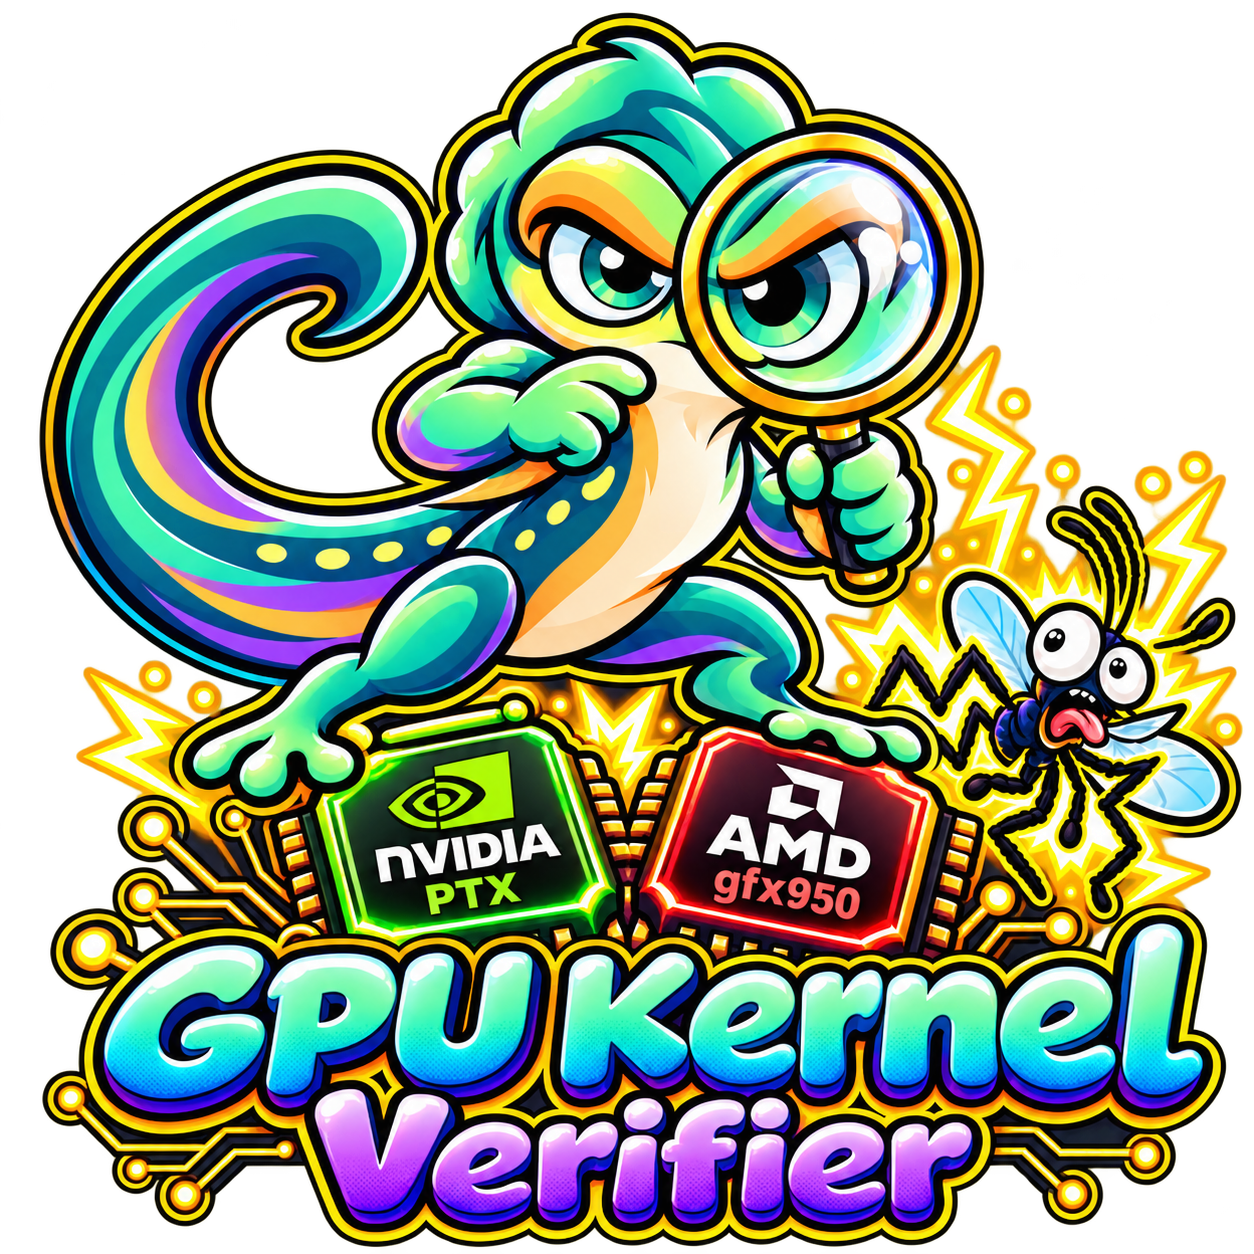
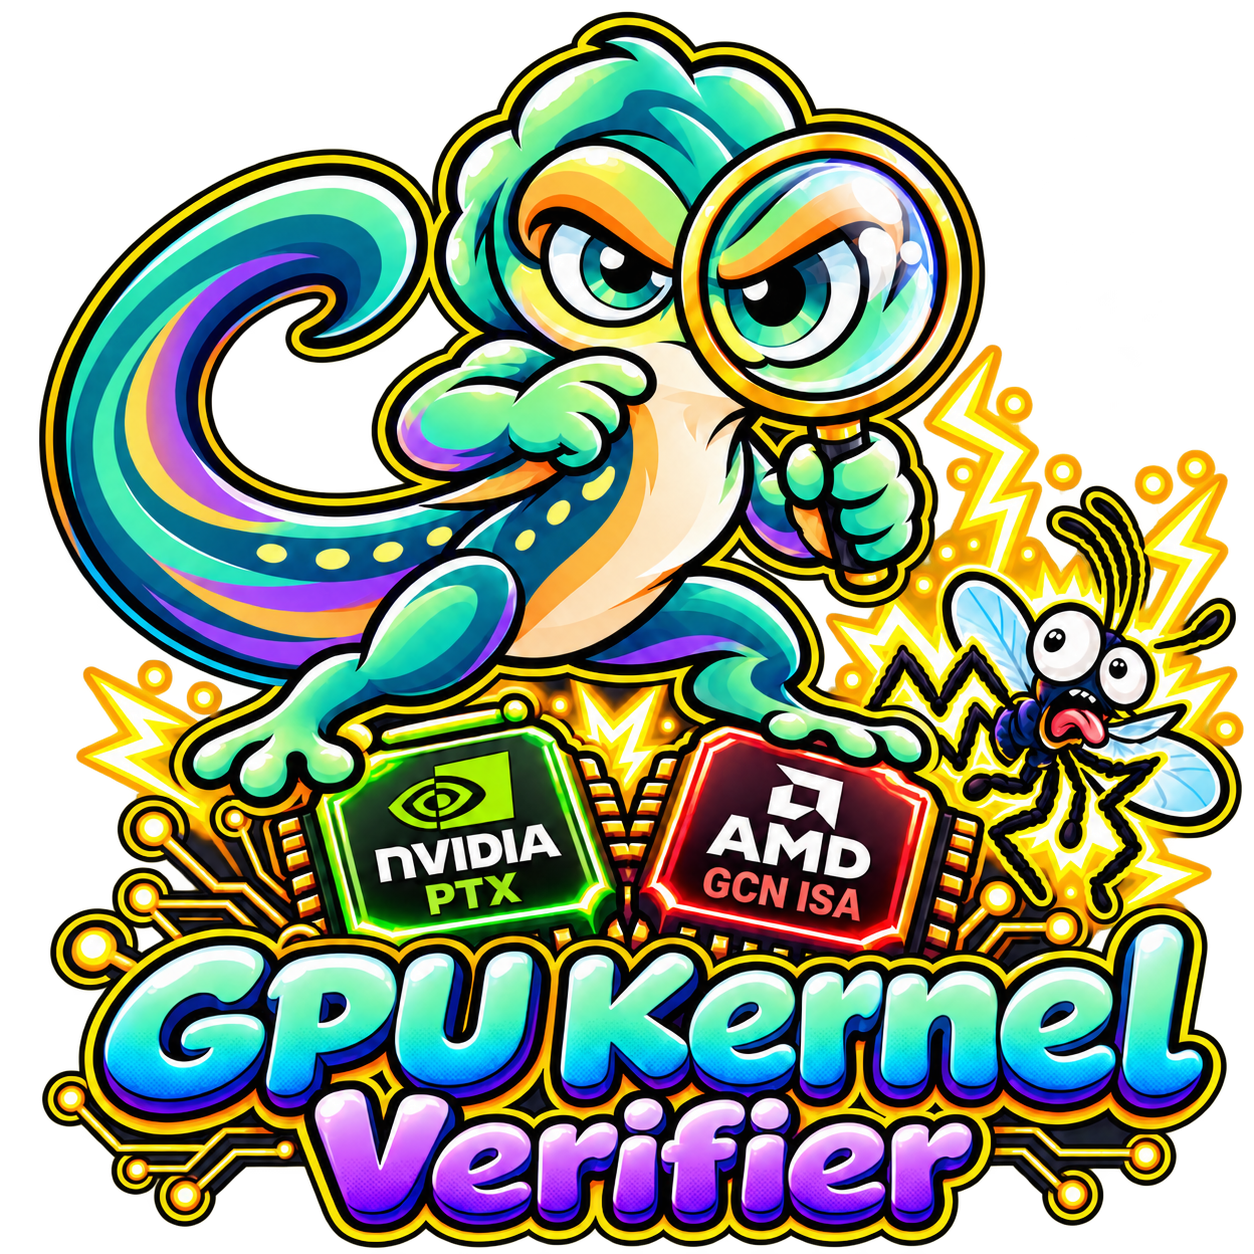
Use GCN ISA instead of a single AMD target in the README hero

diff --git a/README.md b/README.md
@@ -1,7 +1,7 @@
 <h1 align="center">GPU Kernel Verifier</h1>
 
 <p align="center">
-  <img src="gpu-kernel-verifier.png" alt="GPU Kernel Verifier: NVIDIA PTX and AMD gfx950" width="560">
+  <img src="gpu-kernel-verifier.png" alt="GPU Kernel Verifier: NVIDIA PTX and AMD GCN ISA" width="560">
 </p>
 
 GPU Kernel Verifier checks NVIDIA PTX and native AMD gfx942/gfx950 assembly for data races and deadlocks, and checks a kernel for equivalence to a reference kernel or a math spec (floats are modeled as reals). This is an experimental fork of [Volta](https://github.com/willtunnels/volta). The CLI and Python package retain the `volta` name for compatibility.
